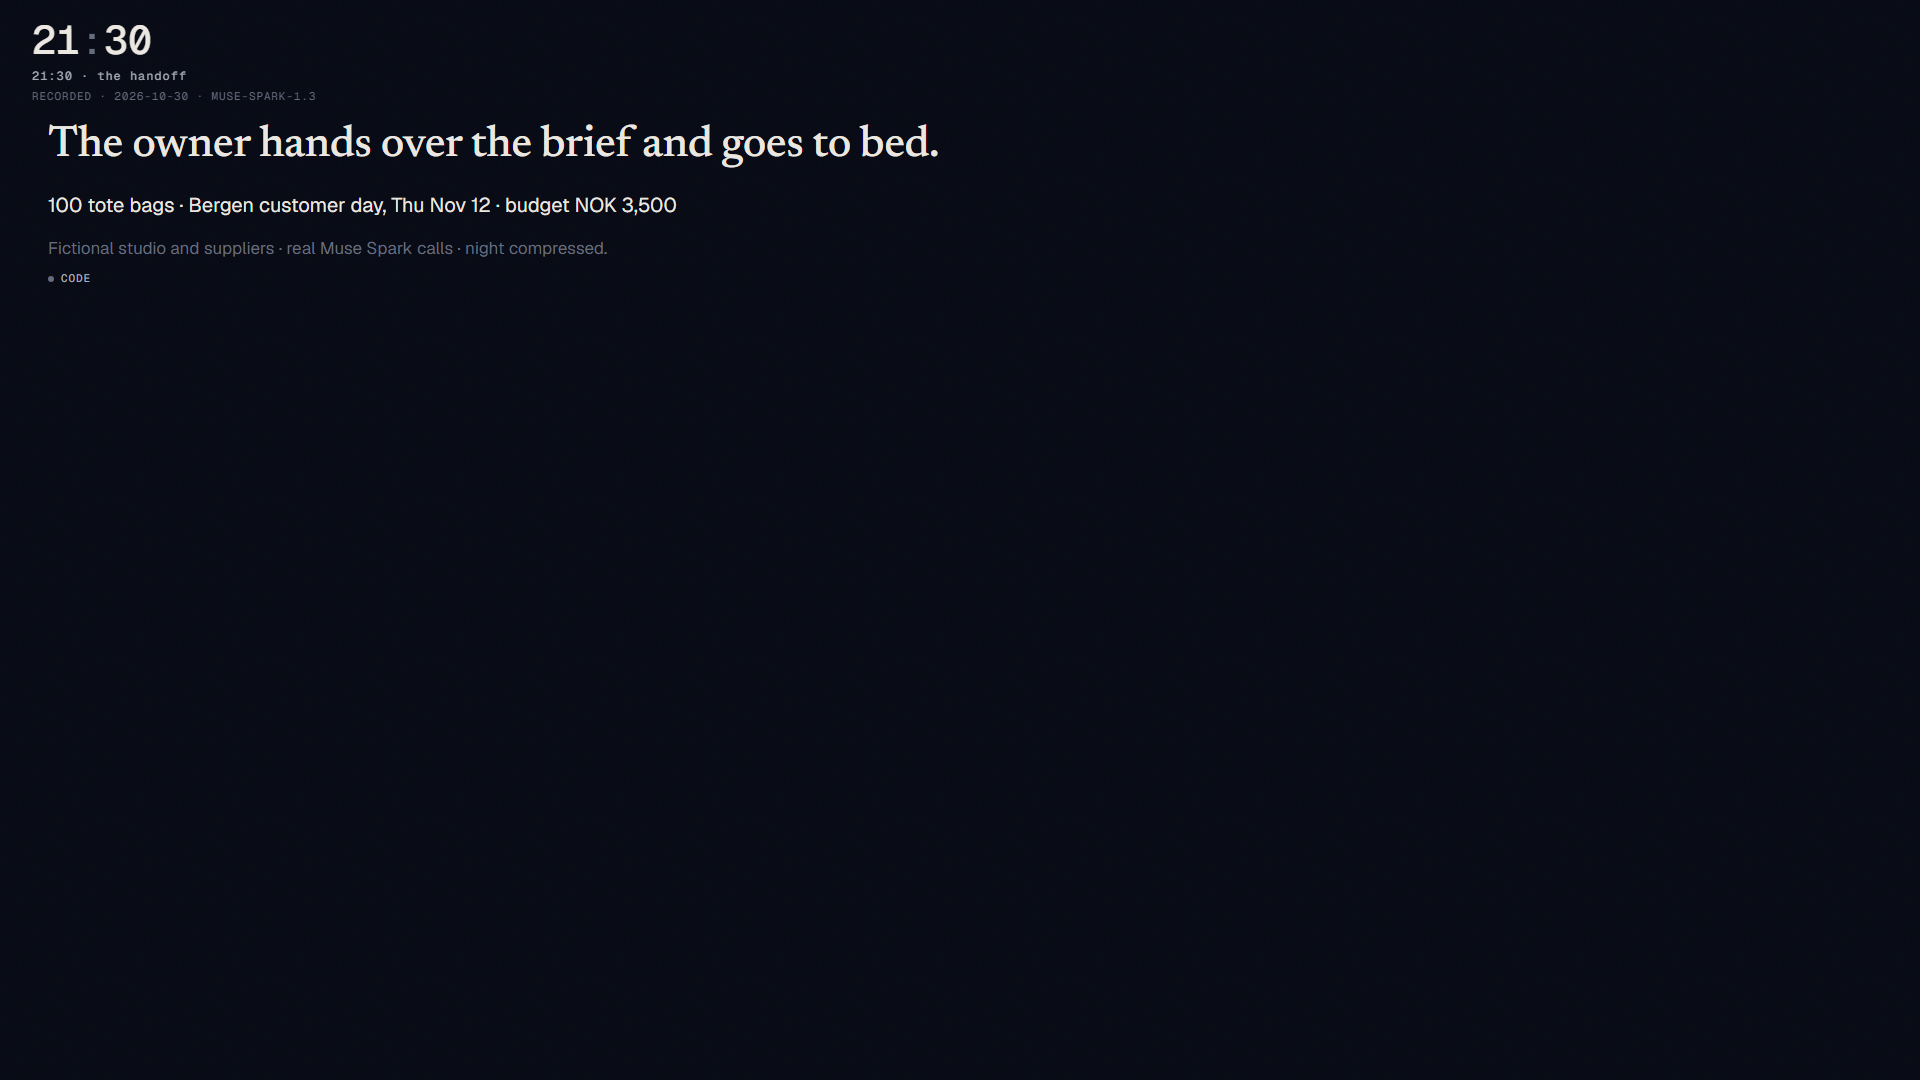
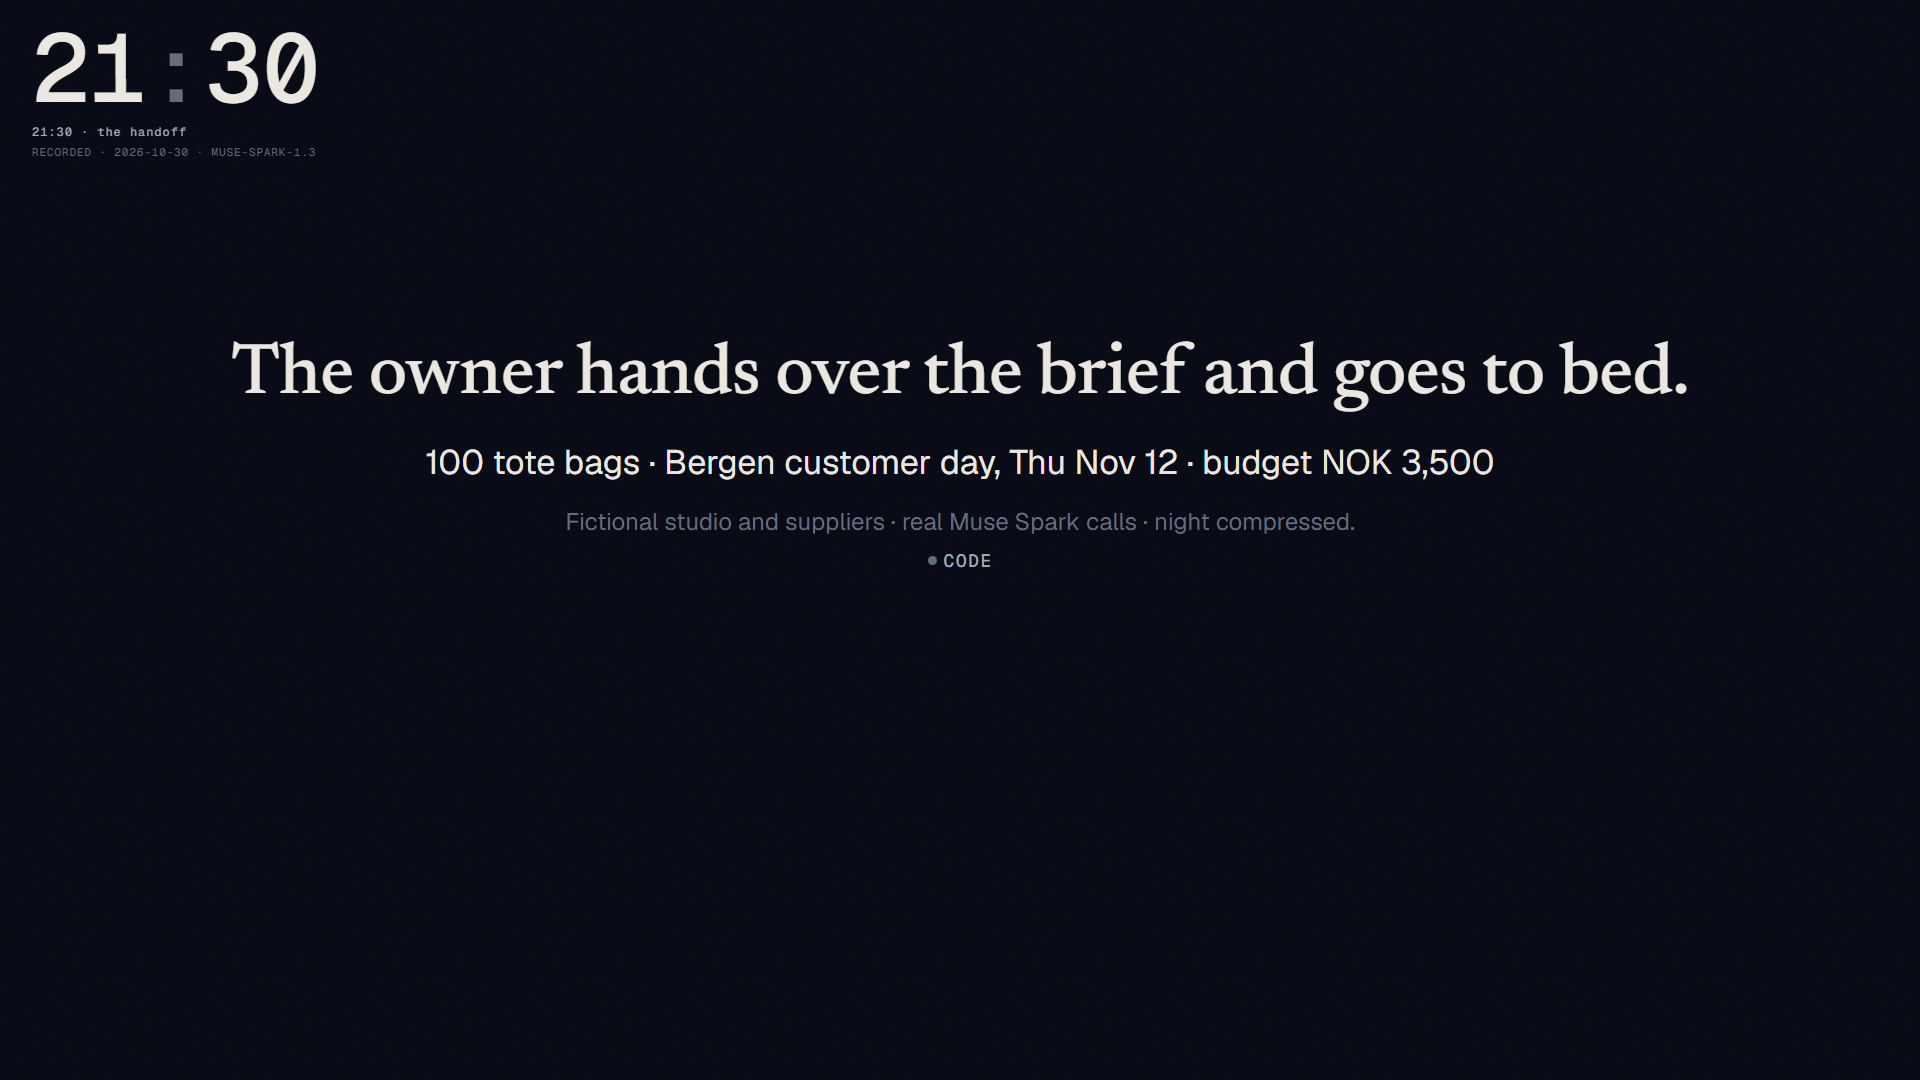
S7 part 2: frame-fill assertions, recomposed stills, morning caption fix
Eight parametrized S7 bbox assertions (inner grid for read/checks, centred band otherwise). Re-rendered 16x9 stills for the eight beats; sheet/note byte-identical. Morning receipt caption wrapped under the slip (it sprawled full-width). Prompt file copied and listed, BUILDLOG updated. Suite 342 green.

Changed region(s): [[0.125, 0.3056, 0.875, 0.4889], [0.0, 0.0306, 0.5, 0.1528], [0.0312, 0.1833, 0.3438, 0.2444]]

diff --git a/static/night.css b/static/night.css
@@ -424,3 +424,4 @@ body.frame-16x9 .fbeat[data-beat="morning"] .receiptsec{flex:none}
 body.frame-16x9 .fbeat[data-beat="morning"] .fserif{font-size:64px}
 body.frame-16x9 .fbeat[data-beat="morning"] .fcounts{font-size:34px}
 body.frame-16x9 .fbeat[data-beat="morning"] .receipt{font-size:22px;max-width:512px;padding:32px 32px 26px}
+body.frame-16x9 .fbeat[data-beat="morning"] .fmorn .small{max-width:512px;overflow-wrap:break-word}

diff --git a/tests/test_s1b_accept.py b/tests/test_s1b_accept.py
@@ -276,3 +276,33 @@ def test_shortest_beats_render_identically_twice(live_server, tmp_path):
         render_mod.render_beat(pages, "16x9", entry["name"], 5, second)
         ok, detail = render_mod.frames_identical(first, second)
         assert ok, (entry["name"], detail)
+
+
+#: S7: the recomposed beats fill the 16x9 frame. Read and checks assert
+#: their inner grids (genuinely content-tall); the title-card beats assert
+#: the centred band itself (their inner lines are short by nature); dawn's
+#: horizon wash is full-frame by design (S1b), so its band stands in too.
+S7_BEAT_BLOCK = {"brief": ".fbeat.on .fc", "read": ".fbeat.on .fgrid6",
+                 "verdict": ".fbeat.on .fc", "diff": ".fbeat.on .fc",
+                 "checks": ".fbeat.on .fchecks",
+                 "decision": ".fbeat.on .fc", "dawn": ".fbeat.on .fc",
+                 "morning": ".fbeat.on .fc"}
+
+
+@pytest.mark.parametrize("beat", sorted(S7_BEAT_BLOCK))
+def test_s7_beat_fills_frame(live_server, beat):
+    page = live_server["browser"].new_page(
+        viewport={"width": 1920, "height": 1080})
+    try:
+        page.goto(
+            live_server["base"] + f"/?film=1&frame=16x9&beat={beat}",
+            wait_until="load")
+        total = page.evaluate("window.__nightShiftFilm.total")
+        page.evaluate(f"window.__nightShiftTick({total})")
+        box = page.locator(S7_BEAT_BLOCK[beat]).bounding_box()
+        assert box is not None, beat
+        assert box["y"] >= 0, (beat, box)
+        assert box["y"] + box["height"] <= 900, (beat, box)
+        assert box["height"] >= 400, (beat, box)
+    finally:
+        page.close()

diff --git a/BUILDLOG.md b/BUILDLOG.md
@@ -2,6 +2,11 @@
 
 A few lines per session: what was built, what failed, what was cut. Oslo time.
 
+## Mon Nov 2 — prompt S7: film-mode composition for 16x9
+
+- Part 1 (CSS only, static/night.css): the eight beats centre their content at y=450 in a 180..720 band (the lower-third test's <=720 edge, unchanged, is the binding constraint, so the band sits inside 0..900 rather than filling it). Clock digits 40->96 px on the eight beats; sheet/note keep 40 px via :has() on the .on beat. Headlines 72 px (brief/verdict/decision/diff new line; morning greeting 64 px), body/reasons 34 px (verdict measure 1200, decision 1300), read rows 30/30 px in 2x3, tags 18 px, checks 3x2 grid 1700 wide with the No/Yes floated beside the question at 40 px (pass icon 38 px), receipt 1.6x (22 px, 512 wide) with its caption wrapped underneath. Checks cards run 28/22 px for question/reason instead of 30/24: at 30/24 the grid measured 617 px and could neither centre at 450 under the 720 cap nor clear the 96 px clock without text-on-text overlap (160+617>720), so the prompt's "about" absorbed the 7-8%.
+- Part 2: new test_s7_beat_fills_frame (8 parametrized Playwright cases): read/checks assert their inner grids, the other six assert the band itself (their inner lines are short by nature; dawn's wash is full-frame by design). Failing-first observed (brief .fc 165 px tall). Suite 342 green (334 + 8). Determinism: script --check-determinism PASS on diff (50 frames) and morning (55 frames) at fps 5, plus the pytest twins. Stills re-rendered (docs/film/beats/ x8 committed); sheet/note PNGs byte-identical after re-render, proving :has() gating. No WebMs rendered. prompts/prompt-s7-film-16x9.txt copied and listed.
+
 ## Sun Nov 1 — prompt R2-final: final evaluation numbers into the README
 
 - results/20261101T213644Z/ (supervision, 12x3, concurrency 2, $5.3181 total, 3698.9 model-s): must-wake 12/12 in window, needless 3/12 (alternatives_no_wake runs 1-3 at 00:38), late/wrong 0, duplicates 0/0, complete 11/12 (W4_portal_error run 3 fails portal_errors_gte with 0 errors, H-2041 placed), premature 0, misattributed 0, refused 13 / effects 9, late asks refused 3. Harness wall 2178.6 s (sum 4304.3 s).

diff --git a/prompts/README.md b/prompts/README.md
@@ -2,4 +2,4 @@ These are the exact prompt files that drove Muse Code, in order.
 API details inside them were copied from Meta's docs.
 The planning documents they refer to (AGENTS.md, SCENARIO.md) are in the repo root.
 
-In order: prompt-day1-step1.txt, prompt-day1-step2.txt, prompt-day1-step3.txt, prompt-day2-stepA.txt, prompt-day2-stepB.txt, prompt-day3-stepA.txt, prompt-day3-stepC.txt, prompt-day3-stepD.txt, prompt-day3-stepE.txt, prompt-day4-stepA.txt, prompt-day4-stepB.txt, prompt-r1-readme.txt, prompt-f3-names-cache.txt, prompt-b1-grounding.txt, prompt-m14-web-push.txt, prompt-s0-comps.txt, prompt-b1b-grounding-2x.txt, prompt-b1c-grounding-1x.txt, prompt-s0b-comps.txt, prompt-f4a-fixes-a.txt, prompt-f4b-fixes-b.txt, prompt-x1-change-one-fact.txt, prompt-s1a-real-screen.txt, prompt-f5-behaviour-fixes.txt, prompt-s1b-motion-dawn-film.txt, prompt-s1a-fix.txt, prompt-f6-comparison-sentence.txt, prompt-h1-rename-rerecord.txt, prompt-h2-one-message-per-party.txt, prompt-r2-final.txt.
+In order: prompt-day1-step1.txt, prompt-day1-step2.txt, prompt-day1-step3.txt, prompt-day2-stepA.txt, prompt-day2-stepB.txt, prompt-day3-stepA.txt, prompt-day3-stepC.txt, prompt-day3-stepD.txt, prompt-day3-stepE.txt, prompt-day4-stepA.txt, prompt-day4-stepB.txt, prompt-r1-readme.txt, prompt-f3-names-cache.txt, prompt-b1-grounding.txt, prompt-m14-web-push.txt, prompt-s0-comps.txt, prompt-b1b-grounding-2x.txt, prompt-b1c-grounding-1x.txt, prompt-s0b-comps.txt, prompt-f4a-fixes-a.txt, prompt-f4b-fixes-b.txt, prompt-x1-change-one-fact.txt, prompt-s1a-real-screen.txt, prompt-f5-behaviour-fixes.txt, prompt-s1b-motion-dawn-film.txt, prompt-s1a-fix.txt, prompt-f6-comparison-sentence.txt, prompt-h1-rename-rerecord.txt, prompt-h2-one-message-per-party.txt, prompt-r2-final.txt, prompt-s7-film-16x9.txt.
